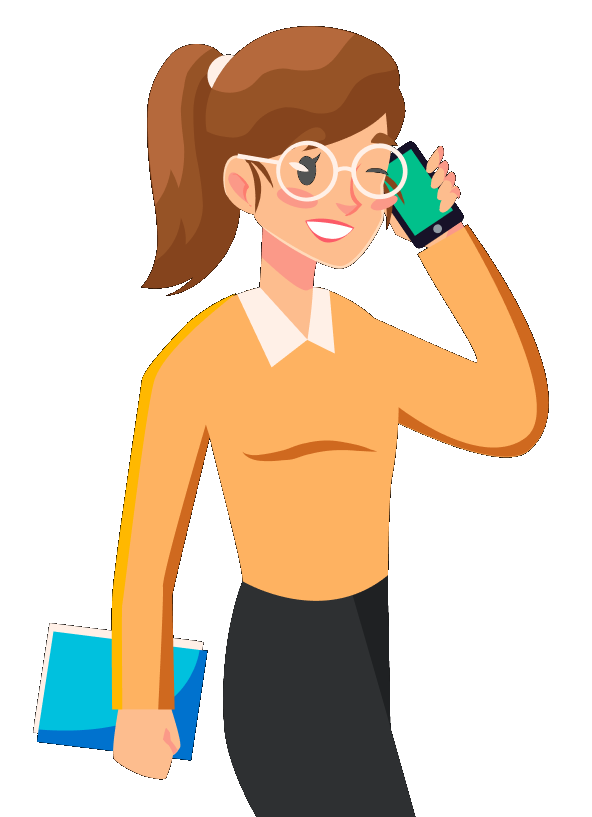
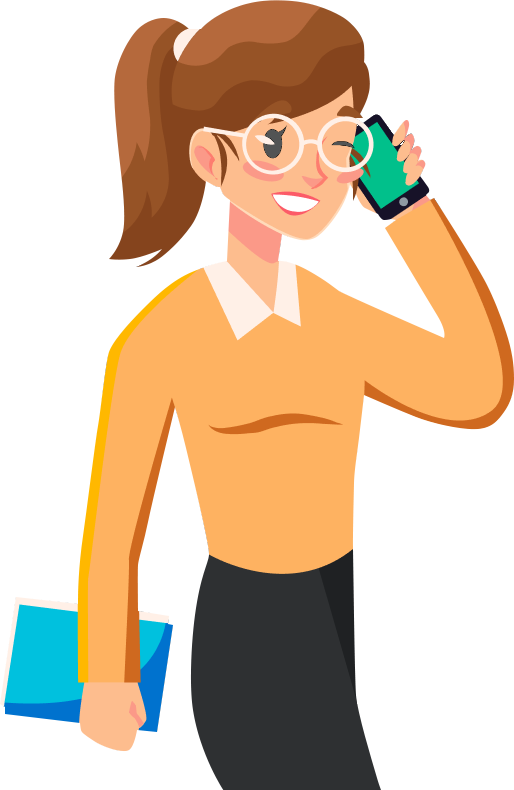
replace pahotos

Changed region(s): [[0.0, 0.0, 1.0, 1.0], [0.3735, 0.6076, 0.4047, 0.6684]]

diff --git a/src/frontend/src/app/App.components/Popup/Popup.style.tsx b/src/frontend/src/app/App.components/Popup/Popup.style.tsx
@@ -62,5 +62,7 @@ export const PopupImage = styled.div`
     
     img {
         width: 100%;
+        height: 100%;
+        object-fit: contain;
     }
 `
